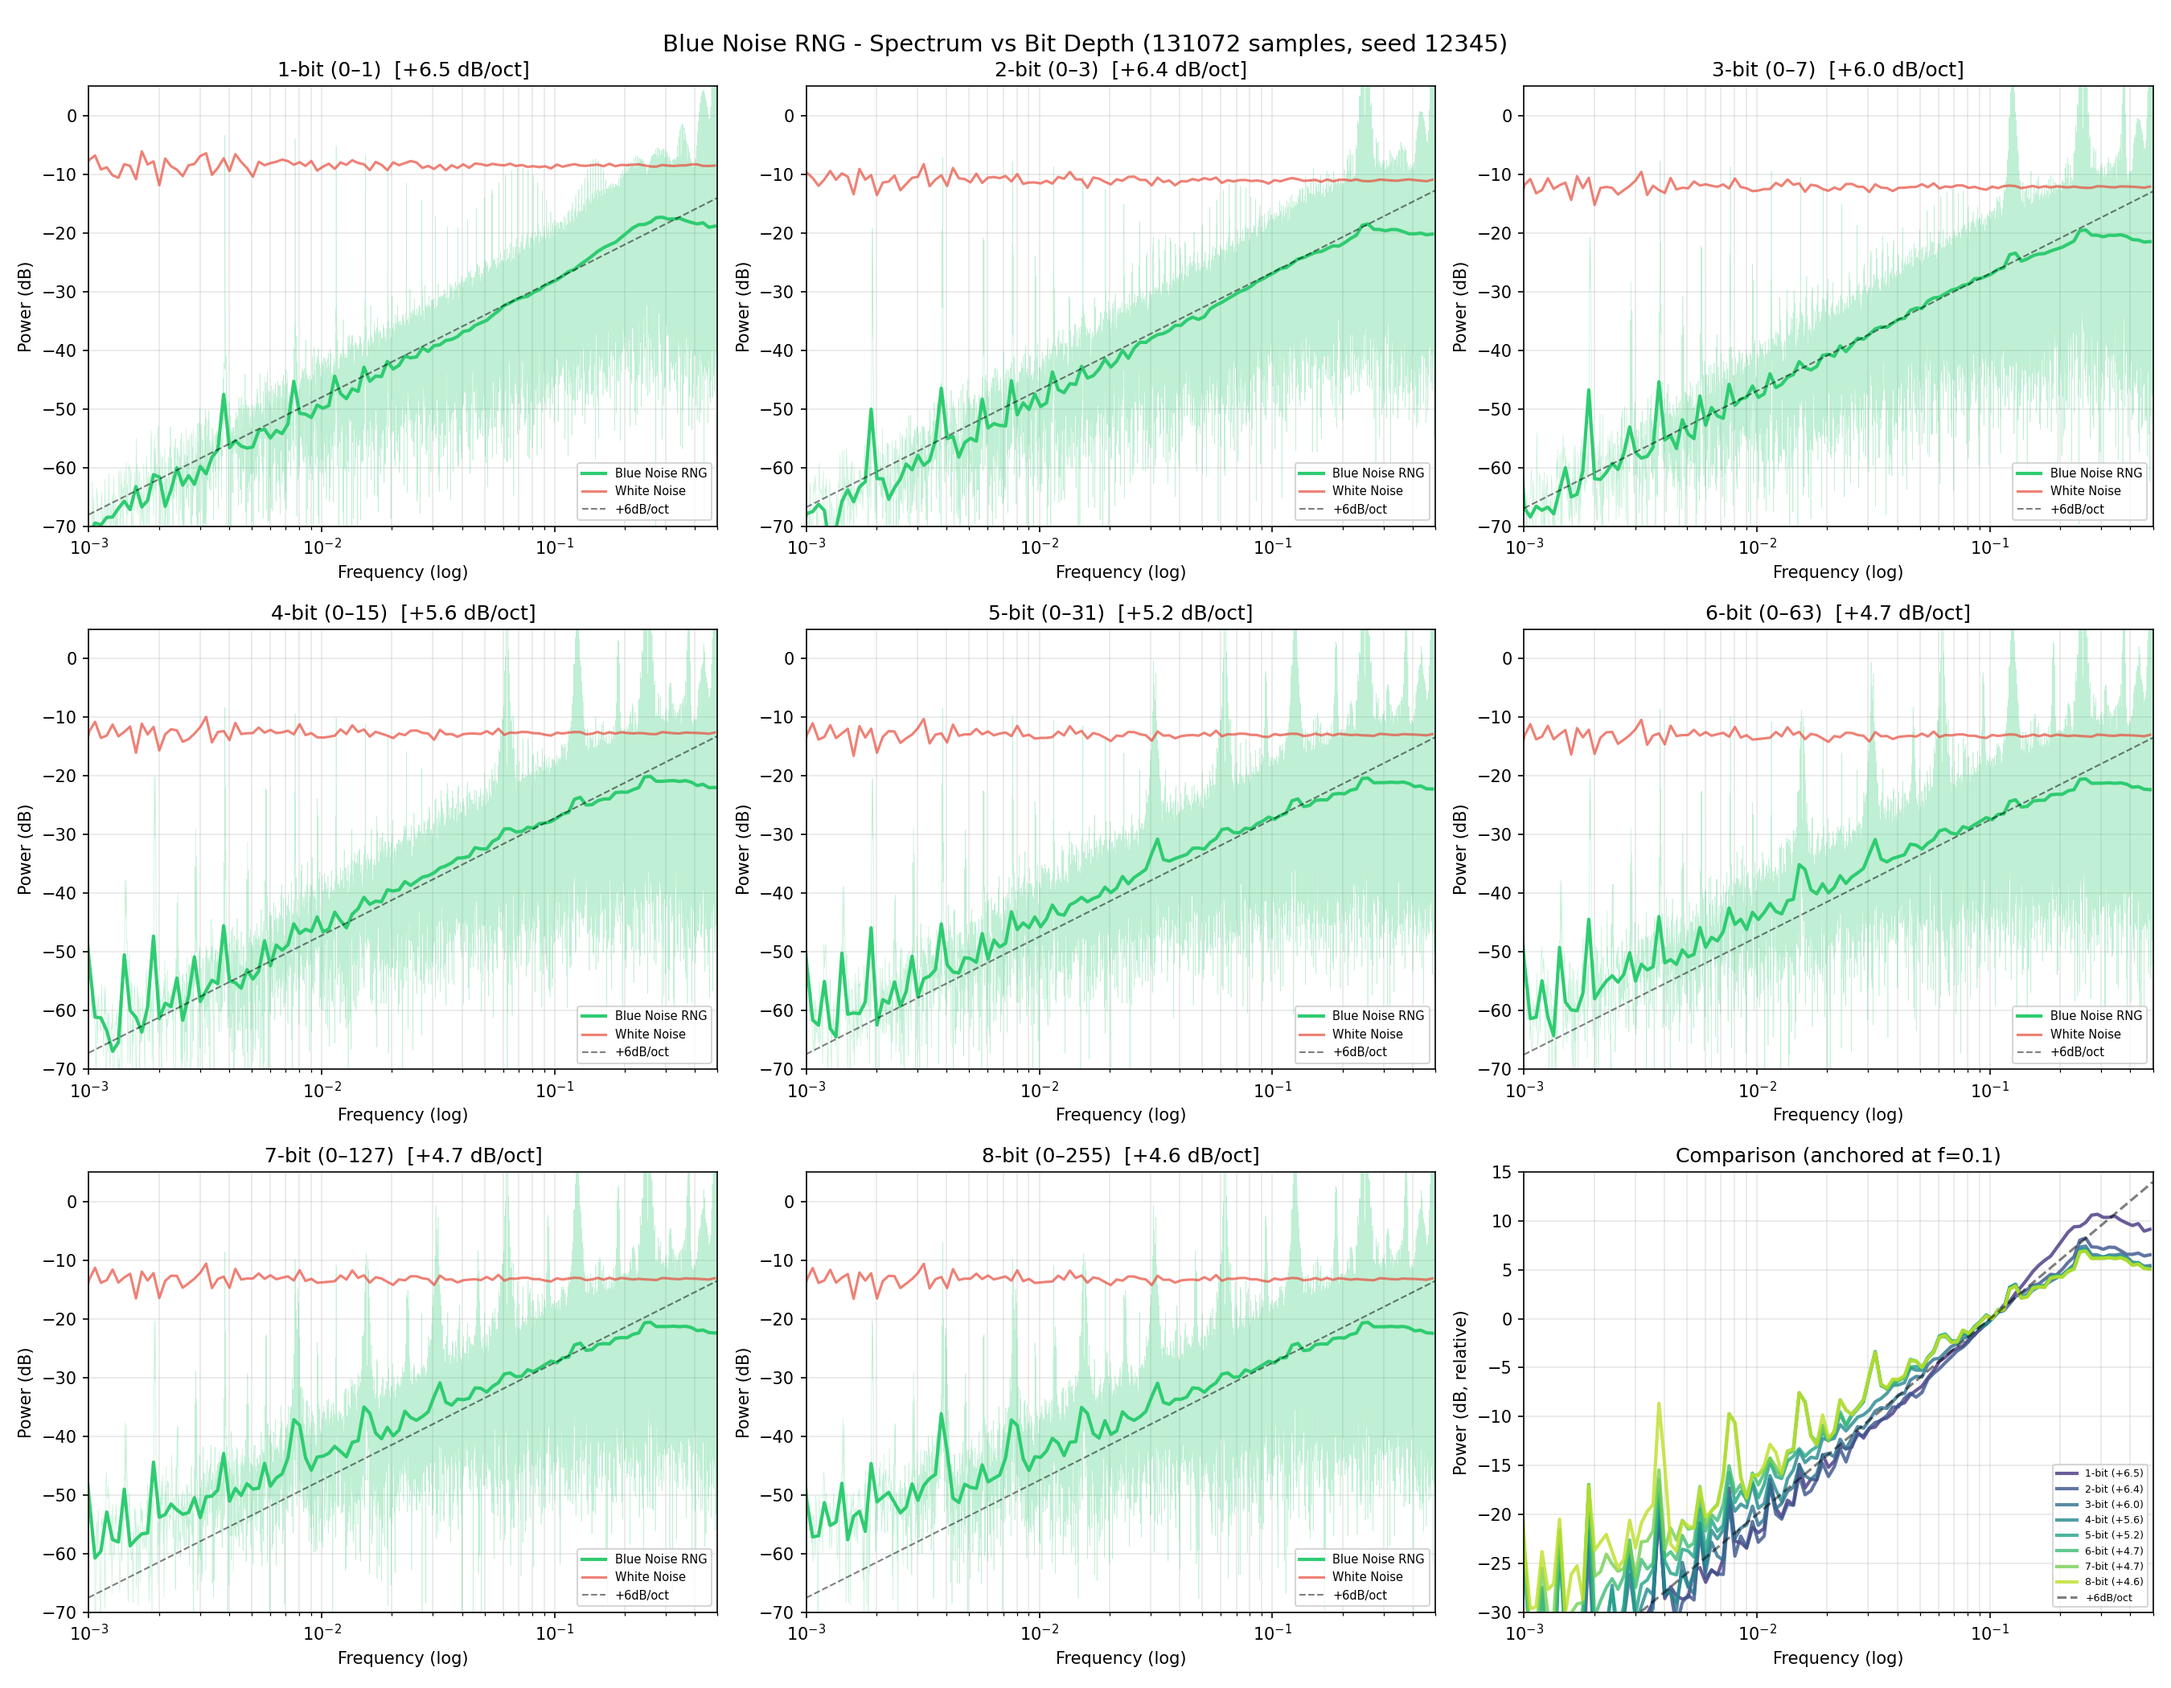
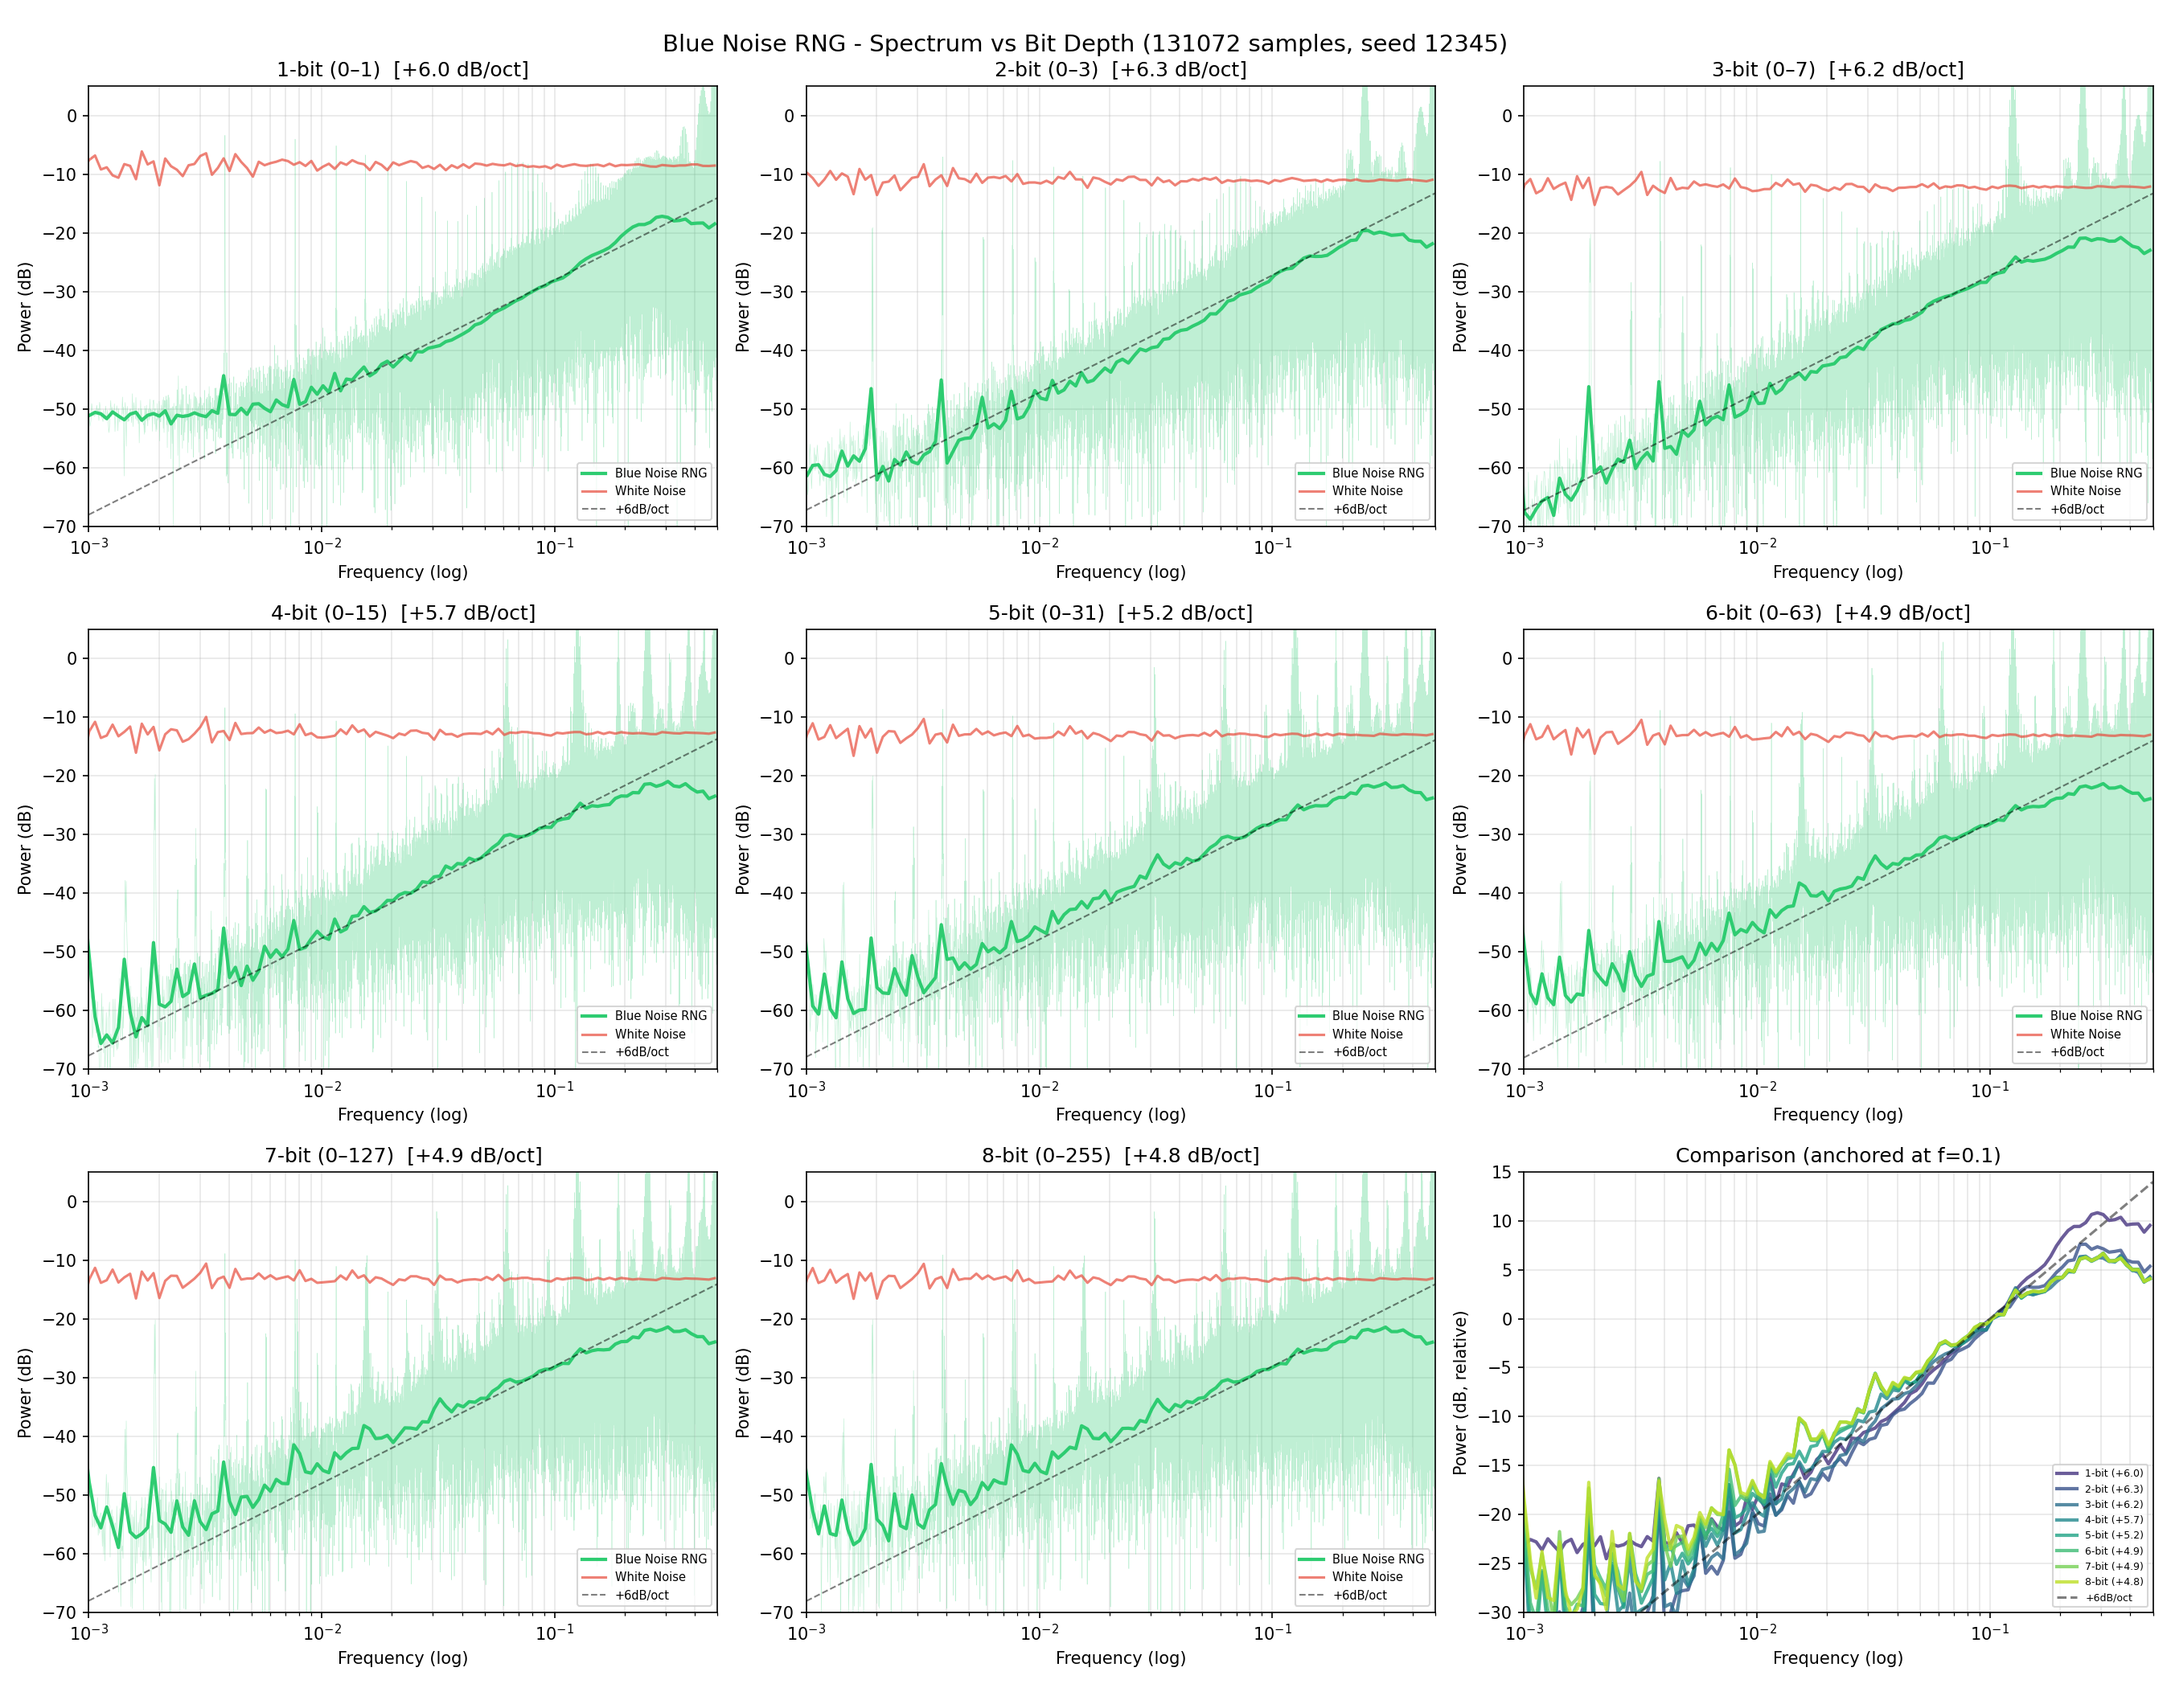
Add warmup

diff --git a/tools/analyze_blue_noise_rng.py b/tools/analyze_blue_noise_rng.py
@@ -49,16 +49,46 @@ def lowbias32(x):
 # =============================================================================
 
 @njit(cache=True)
+def _warmup_states(err0, err1, bit_depth, seed):
+    """Run each state through 256 error diffusion steps to fill error buffers."""
+    num_states = (1 << bit_depth) - 1
+    for si in range(num_states):
+        for w in range(256):
+            pixel = 128 * 48 + err0[si]
+            if pixel >= 6120:
+                quant_err = pixel - 12240
+            else:
+                quant_err = pixel
+
+            h = lowbias32((w & 0xFFFFFFFF) ^ ((si << 16) & 0xFFFFFFFF)
+                          ^ (seed & 0xFFFFFFFF))
+
+            old_err1 = err1[si]
+            err1[si] = 0
+
+            if h & 1:
+                err0[si] = old_err1 + quant_err
+            else:
+                err0[si] = old_err1 + (quant_err * 38) // 48
+                err1[si] = (quant_err * 10) // 48
+
+
+@njit(cache=True)
 def blue_noise_rng(count, bit_depth, seed):
     """
     Blue noise RNG - matches blue_noise_rng.h implementation.
 
     Population splitting with binary tree of 1D error diffusion states.
     Each output traverses N levels (one per bit), each deciding high/low
-    via error diffusion at 50% duty cycle.
+    via error diffusion at 50% duty cycle. All states are warmed up with
+    256 individual error diffusion steps during init.
     """
     err0 = np.zeros(255, dtype=np.int64)
     err1 = np.zeros(255, dtype=np.int64)
+
+    # Warmup: 256 steps per state (matches C init)
+    _warmup_states(err0, err1, bit_depth, seed)
+
     output = np.zeros(count, dtype=np.int32)
 
     for i in range(count):

diff --git a/tools/blue_noise_rng.h b/tools/blue_noise_rng.h
@@ -157,6 +157,40 @@ void blue_noise_rng_init(BlueNoiseRng *rng, uint8_t bit_depth, uint32_t seed) {
     rng->seed = seed;
     rng->position = 0;
     memset(rng->states, 0, sizeof(rng->states));
+
+    /* Warmup: run each state individually through 256 error diffusion
+     * steps at 50% duty cycle. This fills the error buffers so the first
+     * outputs don't exhibit the cold-start pattern (all states at zero
+     * error produce a deterministic sequence).
+     * Hash uses (warmup_step, state_index, seed) to give each state a
+     * unique kernel selection sequence during warmup. */
+    int num_states = (1 << bit_depth) - 1;
+    for (int si = 0; si < num_states; si++) {
+        BlueNoiseRngState *s = &rng->states[si];
+        for (int w = 0; w < 256; w++) {
+            int32_t pixel = 128 * 48 + s->err0;
+            int32_t quant_err;
+
+            if (pixel >= 6120) {
+                quant_err = pixel - 12240;
+            } else {
+                quant_err = pixel;
+            }
+
+            uint32_t hash = blue_noise_rng_hash(
+                (uint32_t)w ^ ((uint32_t)si << 16) ^ seed);
+
+            s->err0 = s->err1;
+            s->err1 = 0;
+
+            if (hash & 1) {
+                s->err0 += quant_err;
+            } else {
+                s->err0 += (quant_err * 38) / 48;
+                s->err1 += (quant_err * 10) / 48;
+            }
+        }
+    }
 }
 
 void blue_noise_rng_reset(BlueNoiseRng *rng) {
